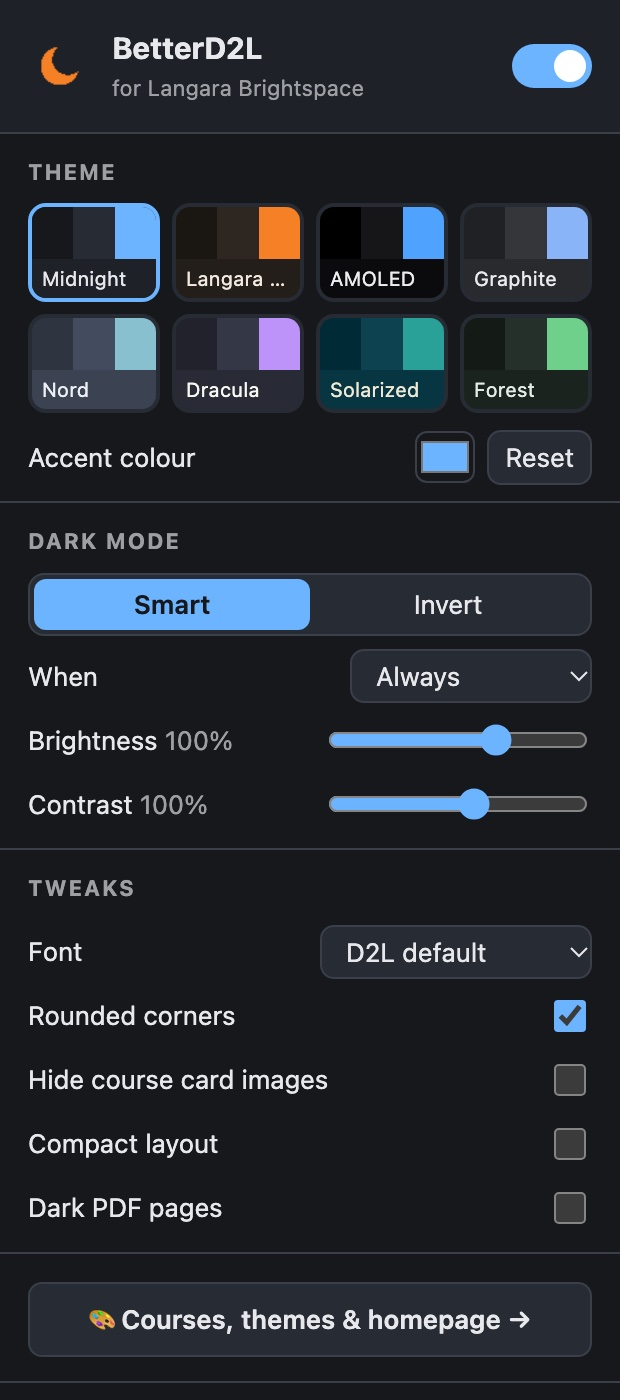
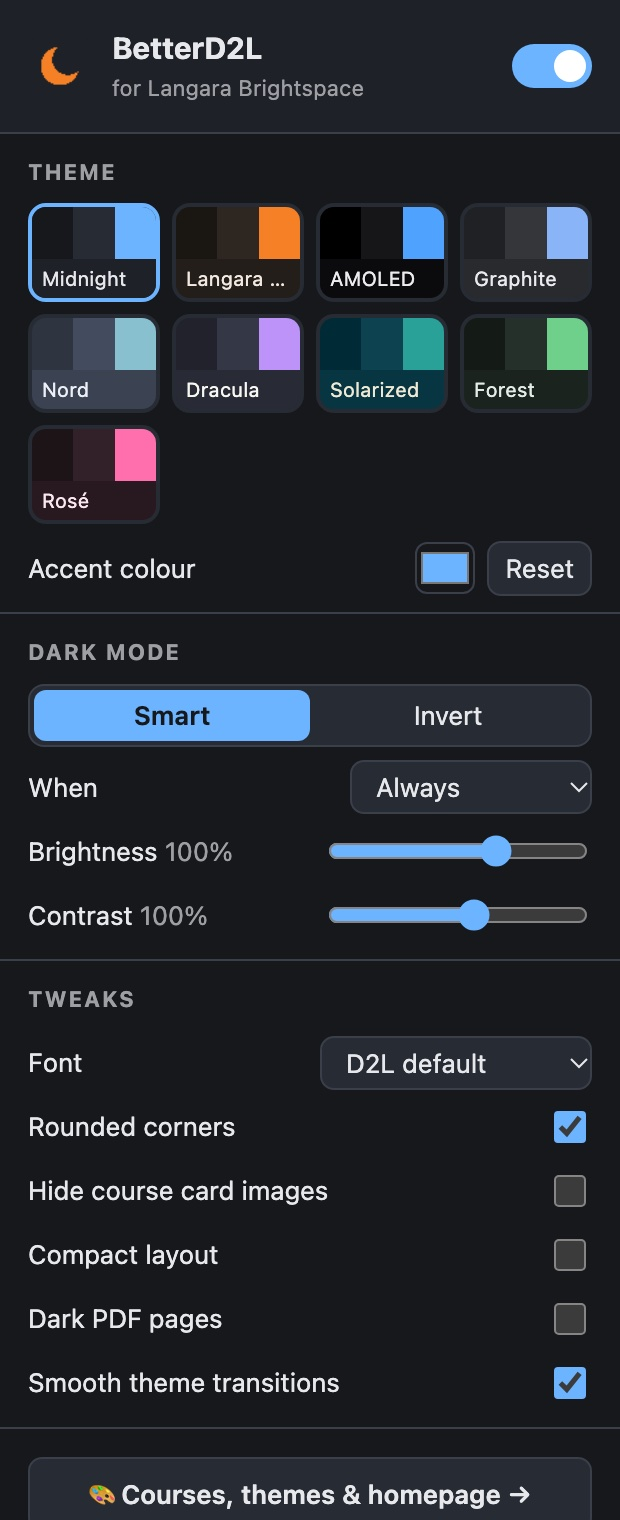
BetterD2L 2.4.0: Rosé pink theme, tighter copy
- New Rosé theme (plum backgrounds, bubblegum-pink accent) in the
  extension and the website's theme picker; 9 built-in themes
- Remove screenshot anonymisation notes and "leave out personal info"
  asides from the website and README
- Refresh popup screenshot

diff --git a/docs/index.html b/docs/index.html
@@ -4,14 +4,14 @@
 <meta charset="utf-8">
 <meta name="viewport" content="width=device-width, initial-scale=1">
 <title>BetterD2L: dark mode and upgrades for Langara D2L</title>
-<meta name="description" content="Free Chrome extension for Langara's Brightspace (D2L): real dark mode, 8 themes, exam countdowns, custom course cards and colour coding. Like BetterCanvas, for D2L.">
+<meta name="description" content="Free Chrome extension for Langara's Brightspace (D2L): real dark mode, 9 themes, exam countdowns, custom course cards and colour coding. Like BetterCanvas, for D2L.">
 <meta name="theme-color" content="#16181c">
 <link rel="icon" href="icon.png">
 
 <!-- Link previews (iMessage, Discord, Reddit, Instagram DMs…) -->
 <meta property="og:type" content="website">
 <meta property="og:title" content="BetterD2L: dark mode for Langara D2L 🌙">
-<meta property="og:description" content="Real dark mode, 8 themes, exam countdowns and custom course cards for Brightspace. Free.">
+<meta property="og:description" content="Real dark mode, 9 themes, exam countdowns and custom course cards for Brightspace. Free.">
 <meta property="og:url" content="https://cryptochefa.github.io/betterd2l/">
 <meta property="og:image" content="https://cryptochefa.github.io/betterd2l/screenshots/homepage-countdown.jpg">
 <meta name="twitter:card" content="summary_large_image">
@@ -149,7 +149,7 @@
   <div class="wrap">
     <span class="eyebrow">🌙 For Langara Brightspace · Free &amp; open source</span>
     <h1>D2L, but <em>actually</em> nice to look at.</h1>
-    <p class="lede">Real dark mode, 8 themes, exam countdowns and custom course cards for Langara's D2L. Like BetterCanvas, for Brightspace.</p>
+    <p class="lede">Real dark mode, 9 themes, exam countdowns and custom course cards for Langara's D2L. Like BetterCanvas, for Brightspace.</p>
     <div class="cta">
       <a class="btn btn-primary dl" href="https://github.com/CryptoChefA/betterd2l/releases/latest/download/betterd2l.zip">
         <svg viewBox="0 0 48 48" aria-hidden="true"><circle cx="24" cy="24" r="22" fill="#fff"/><path d="M24 2a22 22 0 0 1 19.05 11H24a11 11 0 0 0-9.53 5.5L5.3 13.03A22 22 0 0 1 24 2z" fill="#ea4335"/><path d="M43.05 13A22 22 0 0 1 26.3 45.88l9.2-15.38A11 11 0 0 0 33.5 24a11 11 0 0 0-1.47-5.5L43.05 13z" fill="#fbbc04"/><path d="M26.3 45.88A22 22 0 0 1 5.3 13.03l9.17 5.47A11 11 0 0 0 24 35a11 11 0 0 0 11.5-4.5l-9.2 15.38z" fill="#34a853"/><circle cx="24" cy="24" r="8.5" fill="#4285f4" stroke="#fff" stroke-width="2.5"/></svg>
@@ -185,7 +185,7 @@
   <div class="wrap play">
     <div>
       <h2>Pick your vibe</h2>
-      <p class="sub">8 built-in themes, any accent colour, and smooth fades when you switch. Try it here: this page uses the same palettes.</p>
+      <p class="sub">9 built-in themes, any accent colour, and smooth fades when you switch. Try it here: this page uses the same palettes.</p>
       <div class="swatches" id="swatches"></div>
     </div>
     <div class="shot"><img src="screenshots/course-after.jpg" alt="A Langara course homepage in BetterD2L dark mode" loading="lazy"></div>
@@ -208,7 +208,7 @@
 <section>
   <div class="wrap">
     <h2>See it on real pages</h2>
-    <p class="sub">Screenshots from Langara's D2L. The student's name is swapped out and instructor text is blurred.</p>
+    <p class="sub">Straight from Langara's D2L.</p>
     <div class="gallery">
       <figure class="shot-fig"><div class="shot"><img src="screenshots/homepage-cards.jpg" alt="Custom course cards and colour-coded Work To Do" loading="lazy"></div><figcaption>Custom course cards &amp; colour-coded Work To Do</figcaption></figure>
       <figure class="shot-fig"><div class="shot"><img src="screenshots/grades.jpg" alt="Grades page in dark mode" loading="lazy"></div><figcaption>Grades, finally easy on the eyes</figcaption></figure>
@@ -238,7 +238,7 @@
       <details><summary>Is it safe? Why does Chrome say "developer mode"?</summary><p>Developer mode just means the extension was loaded from a folder instead of the Chrome Web Store. The code is all public on <a href="https://github.com/CryptoChefA/betterd2l">GitHub</a>, so you (or a CS friend) can read every line. It only runs on Langara's D2L and never sends data anywhere.</p></details>
       <details><summary>Does it work on Mac, Windows and Chromebook?</summary><p>Yes. It works anywhere Chrome runs, plus Edge, Brave, Arc and Opera. Safari and Firefox aren't supported yet.</p></details>
       <details><summary>Can it break D2L or my submissions?</summary><p>No. It only changes how pages look and reads your course dates. It never submits, posts or edits anything. If a page ever looks off, press <kbd>Alt</kbd>+<kbd>Shift</kbd>+<kbd>D</kbd> to turn it off instantly.</p></details>
-      <details><summary>Something still looks bright. What do I do?</summary><p>Switch to <b>Invert</b> mode in the popup for now, and <a href="https://github.com/CryptoChefA/betterd2l/issues">open an issue</a> saying which page it was. Please leave out personal info.</p></details>
+      <details><summary>Something still looks bright. What do I do?</summary><p>Switch to <b>Invert</b> mode in the popup for now, and <a href="https://github.com/CryptoChefA/betterd2l/issues">open an issue</a> saying which page it was.</p></details>
       <details><summary>How do I update?</summary><p>Download the new zip, replace your <code>betterd2l</code> folder's contents, then hit ↻ on BetterD2L in <code>chrome://extensions</code>. Your settings stay put. See the <a href="https://github.com/CryptoChefA/betterd2l/blob/main/CHANGELOG.md">changelog</a> for what's new.</p></details>
       <details><summary>Is this made by Langara or D2L?</summary><p>No. It's an independent student project, not affiliated with Langara College or D2L Corporation.</p></details>
     </div>
@@ -270,7 +270,8 @@
     nord:      ['Nord',          '#2e3440', '#3b4252', '#434c5e', '#4c566a', '#eceff4', '#88c0d0'],
     dracula:   ['Dracula',       '#21222c', '#282a36', '#343746', '#44475a', '#f8f8f2', '#bd93f9'],
     solarized: ['Solarized',     '#002b36', '#073642', '#0d4250', '#1d5563', '#eee8d5', '#2aa198'],
-    forest:    ['Forest',        '#141a16', '#1b231e', '#243029', '#34453a', '#e3ece5', '#6fd08c']
+    forest:    ['Forest',        '#141a16', '#1b231e', '#243029', '#34453a', '#e3ece5', '#6fd08c'],
+    rose:      ['Rosé',          '#1d1418', '#27191f', '#33212a', '#4d3140', '#fbe7f0', '#ff6fae']
   };
   const mix = (a, b, t) => '#' + [1, 3, 5].map(i => {
     const x = parseInt(a.slice(i, i + 2), 16), y = parseInt(b.slice(i, i + 2), 16);

diff --git a/themes.js b/themes.js
@@ -7,7 +7,8 @@ var BD_THEMES = {
   nord:      { name: 'Nord',          bg: '#2e3440', surface: '#3b4252', surface2: '#434c5e', border: '#4c566a', text: '#eceff4', accent: '#88c0d0' },
   dracula:   { name: 'Dracula',       bg: '#21222c', surface: '#282a36', surface2: '#343746', border: '#44475a', text: '#f8f8f2', accent: '#bd93f9' },
   solarized: { name: 'Solarized',     bg: '#002b36', surface: '#073642', surface2: '#0d4250', border: '#1d5563', text: '#eee8d5', accent: '#2aa198' },
-  forest:    { name: 'Forest',        bg: '#141a16', surface: '#1b231e', surface2: '#243029', border: '#34453a', text: '#e3ece5', accent: '#6fd08c' }
+  forest:    { name: 'Forest',        bg: '#141a16', surface: '#1b231e', surface2: '#243029', border: '#34453a', text: '#e3ece5', accent: '#6fd08c' },
+  rose:      { name: 'Rosé',          bg: '#1d1418', surface: '#27191f', surface2: '#33212a', border: '#4d3140', text: '#fbe7f0', accent: '#ff6fae' }
 };
 
 var BD_DEFAULTS = {

diff --git a/README.md b/README.md
@@ -8,7 +8,7 @@
 Like [BetterCanvas](https://github.com/ksucpea/bettercanvas), but for D2L.
 
 ![Manifest V3](https://img.shields.io/badge/Chrome-Manifest%20V3-4285F4?logo=googlechrome&logoColor=white)
-![Version](https://img.shields.io/badge/version-2.3.0-f58025)
+![Version](https://img.shields.io/badge/version-2.4.0-f58025)
 ![License: MIT](https://img.shields.io/badge/license-MIT-green)
 ![No tracking](https://img.shields.io/badge/tracking-none-brightgreen)
 
@@ -25,7 +25,7 @@ Like [BetterCanvas](https://github.com/ksucpea/bettercanvas), but for D2L.
 ### 🌙 Dark mode that actually works
 - **Smart mode** recolours D2L's own design tokens, then a colour fixer repairs everything else: hard-coded white panels, the audio player, instructor-written announcements, calendar widgets, and legacy pages that live in shadow DOM or iframes where normal CSS can't reach.
 - **Invert mode** is a fallback for pages where nothing else works.
-- **8 built-in themes**: Midnight, Langara Night, AMOLED, Graphite, Nord, Dracula, Solarized and Forest. You can pick any accent colour on top.
+- **9 built-in themes**: Midnight, Langara Night, AMOLED, Graphite, Nord, Dracula, Solarized, Forest and Rosé 🌸. You can pick any accent colour on top.
 - **Scheduling**: always on, follow your system setting, or a time window (e.g. 7 PM to 7 AM).
 - Brightness and contrast sliders, plus an optional **dark PDF pages** mode.
 - **Smooth transitions**: switching themes or turning dark mode on or off crossfades the whole page instead of snapping (respects *Reduce motion*).
@@ -130,7 +130,7 @@ Download the new version from [Releases](https://github.com/CryptoChefA/betterd2
 | **Settings page** (popup → *Courses, themes & homepage*) | Course nicknames, colours and images; theme builder and share codes; countdown options; widget toggles |
 | **Keyboard** | <kbd>Alt</kbd> + <kbd>Shift</kbd> + <kbd>D</kbd> toggles dark mode (change it at `chrome://extensions/shortcuts`) |
 
-**Something still looks bright?** Switch to **Invert** in the popup for that page, and please [open an issue](https://github.com/CryptoChefA/betterd2l/issues) with the page name. Leave out personal info.
+**Something still looks bright?** Switch to **Invert** in the popup for that page, and please [open an issue](https://github.com/CryptoChefA/betterd2l/issues) with the page name.
 
 ---
 

diff --git a/CHANGELOG.md b/CHANGELOG.md
@@ -3,6 +3,14 @@
 All notable changes to BetterD2L are documented here.
 The format follows [Keep a Changelog](https://keepachangelog.com/en/1.1.0/), and versions follow [Semantic Versioning](https://semver.org/).
 
+## [2.4.0] - 2026-10-06
+
+### Added
+- 🌸 **Rosé** theme: deep plum backgrounds with a bubblegum-pink accent. That makes 9 built-in themes.
+
+### Changed
+- Tightened the website and README copy.
+
 ## [2.3.0] - 2026-10-06
 
 ### Added
@@ -61,6 +69,7 @@ The format follows [Keep a Changelog](https://keepachangelog.com/en/1.1.0/), and
 ### Added
 - First release: Smart and Invert dark mode for Langara D2L.
 
+[2.4.0]: https://github.com/CryptoChefA/betterd2l/compare/v2.3.0...v2.4.0
 [2.3.0]: https://github.com/CryptoChefA/betterd2l/compare/v2.2.1...v2.3.0
 [2.2.1]: https://github.com/CryptoChefA/betterd2l/compare/v2.2.0...v2.2.1
 [2.2.0]: https://github.com/CryptoChefA/betterd2l/releases/tag/v2.2.0
